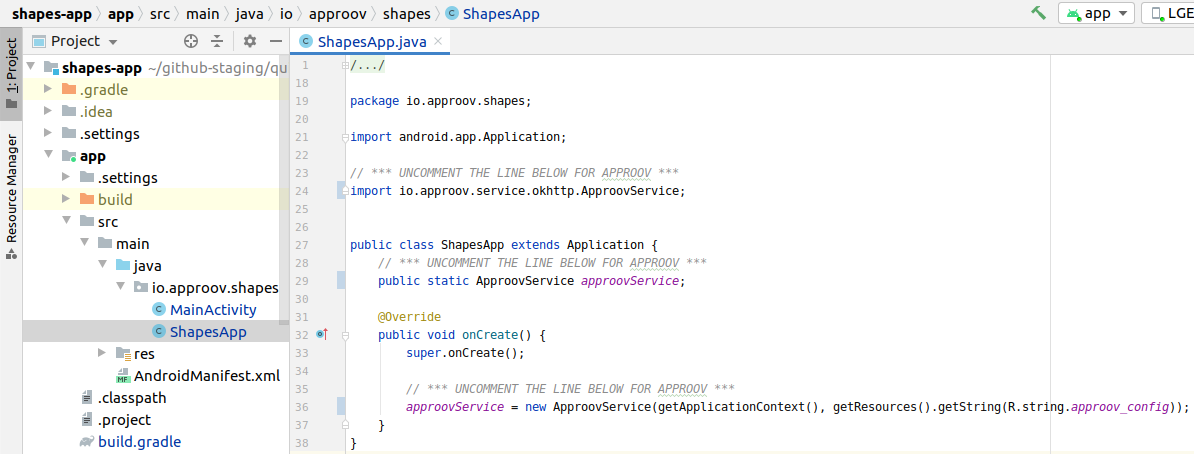
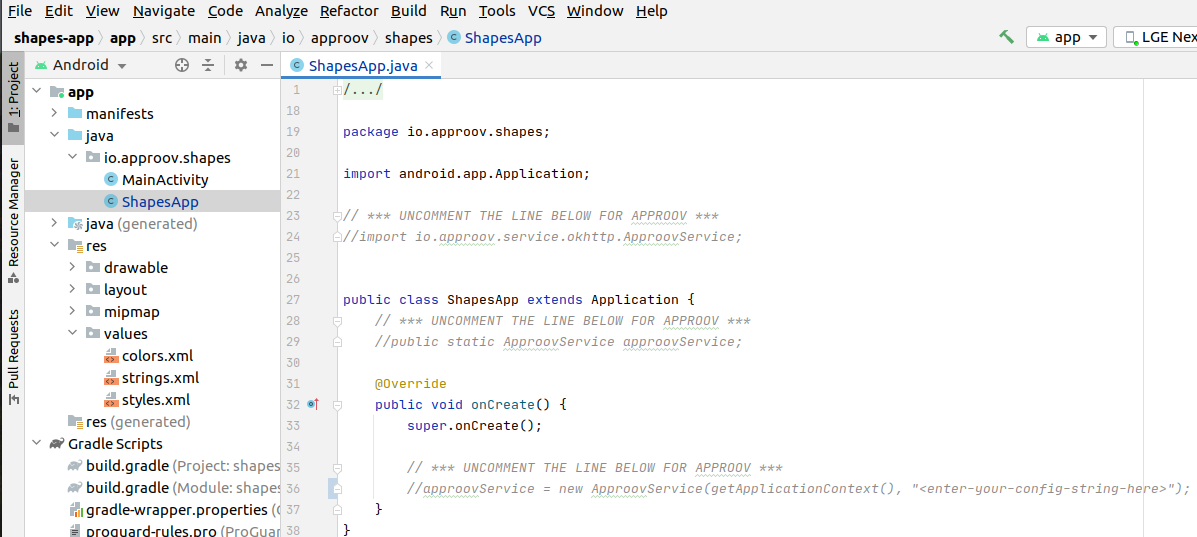
Allow use of short init string

diff --git a/shapes-app/app/src/main/java/io/approov/shapes/ShapesApp.java b/shapes-app/app/src/main/java/io/approov/shapes/ShapesApp.java
@@ -33,6 +33,6 @@ public class ShapesApp extends Application {
         super.onCreate();
 
         // *** UNCOMMENT THE LINE BELOW FOR APPROOV ***
-        //approovService = new ApproovService(getApplicationContext(), getResources().getString(R.string.approov_config));
+        //approovService = new ApproovService(getApplicationContext(), "<enter-your-config-string-here>");
     }
 }

diff --git a/README.md b/README.md
@@ -2,6 +2,10 @@
 
 This quickstart is written specifically for native Android apps that are written in Java and use [`OkHttp`](https://square.github.io/okhttp/) for making the API calls that you wish to protect with Approov. If this is not your situation then check if there is a more relevant quickstart guide available.
 
+This quickstart provides a step-by-step example of integrating Approov into an app using a simple `Shapes` example that shows a geometric shape based on a request to an API backend that can be protected with Approov.
+
+It is also possible to use Approov in `Discovery` mode to perform an initial assessment of your app user base and whether there are requests being made to your backend API that are not coming from your mobile apps. This mode allows a simpler initial integration. If you wish to implement this first then follow the steps [here](https://github.com/approov/approov-service-okhttp) up to and including the `Discovery Mode` section.
+
 ## WHAT YOU WILL NEED
 * Access to a trial or paid Approov account
 * The `approov` command line tool [installed](https://approov.io/docs/latest/approov-installation/) with access to your account
@@ -76,18 +80,6 @@ approov api -add shapes.approov.io
 ```
 Tokens for this domain will be automatically signed with the specific secret for this domain, rather than the normal one for your account.
 
-## SETUP YOUR APPROOV CONFIGURATION
-
-The Approov SDK needs a configuration string to identify the account associated with the app. Obtain it using:
-```
-approov sdk -getConfig initial-config.txt
-```
-Copy and paste the `initial-config.txt` file content into a new created `approov_config` string resource entry as shown (the actual entry will be much longer than shown).
-
-![Initial Config String](readme-images/initial-config.png)
-
-The app reads this string to initialize the Approov SDK.
-
 ## MODIFY THE APP TO USE APPROOV
 
 Uncomment the three lines of Approov initialization code in `io/approov/shapes/ShapesApp.java`:
@@ -95,6 +87,13 @@ Uncomment the three lines of Approov initialization code in `io/approov/shapes/S
 ![Approov Initialization](readme-images/approov-init-code.png)
 
 This initializes Approov when the app is first created. It uses the configuration string we set earlier. A `public static` member allows other parts of the app to access the singleton Approov instance. All calls to `ApproovService` and the SDK itself are thread safe.
+
+The Approov SDK needs a configuration string to identify the account associated with the app. Obtain it using:
+
+```
+approov sdk -getConfigString
+```
+This will output a configuration string, something like `#123456#K/XPlLtfcwnWkzv99Wj5VmAxo4CrU267J1KlQyoz8Qo=`, that will identify your Approov account. Copy this into `io/approov/shapes/ShapesApp.java:36`, replacing the text `<enter-your-config-string-here>`.
 
 Next we need to use Approov when we make request for the shapes. Only a single line of code needs to be changed at `io/approov/shapes/MainActivity.java:137`:
 
